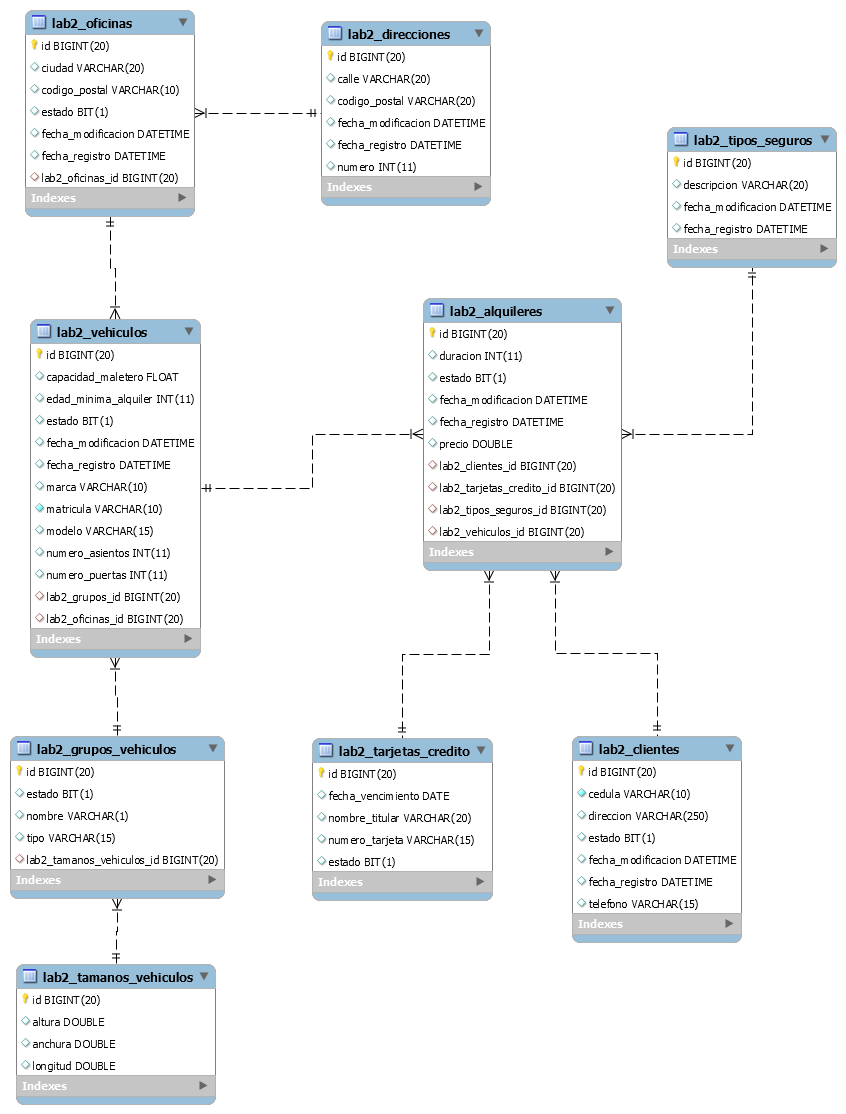
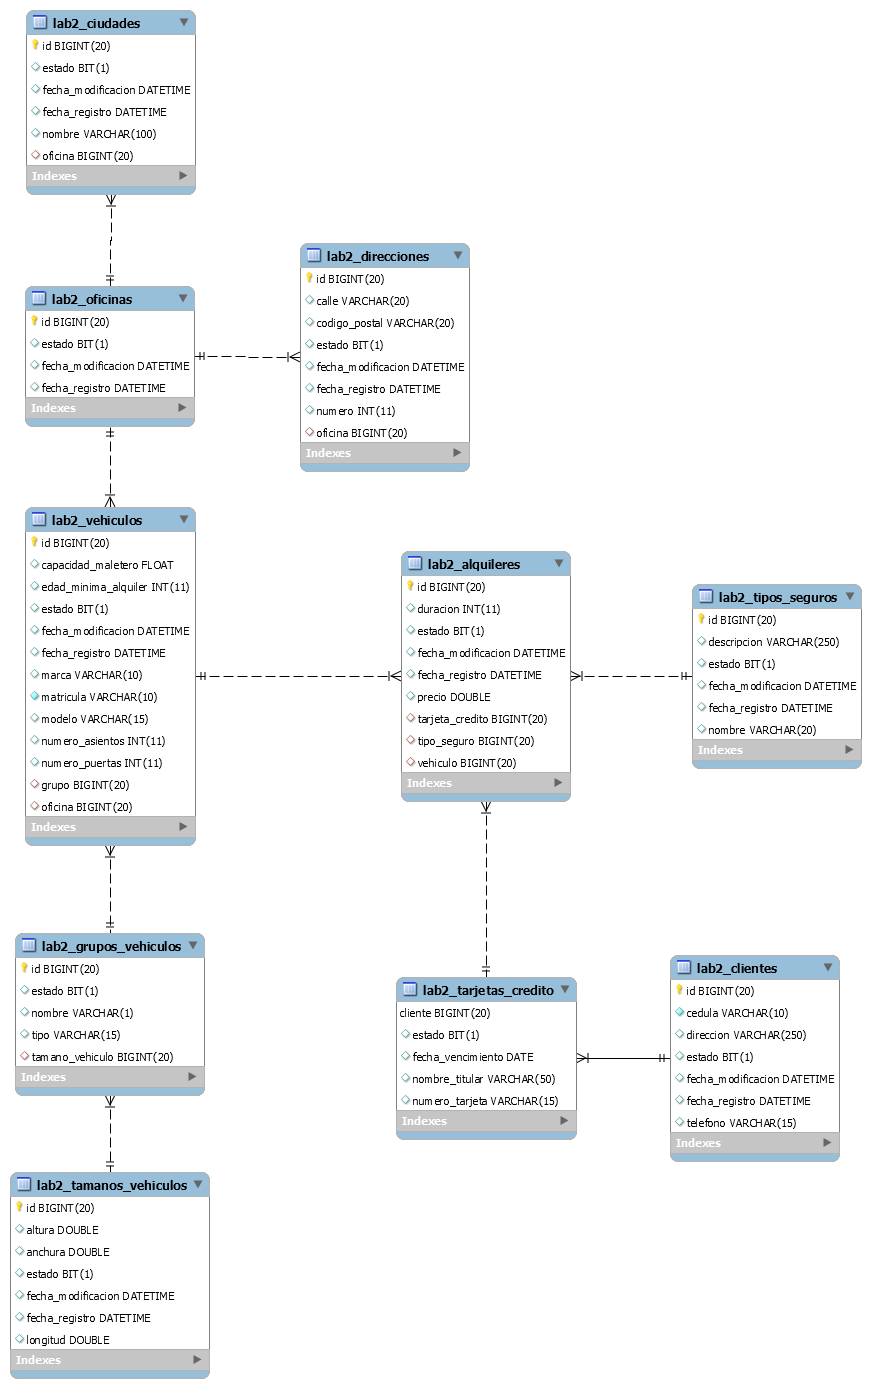
Se agrega ciudad y se modifican relaciones

diff --git a/agencia/src/main/java/org/una/agencia/entities/Ciudad.java b/agencia/src/main/java/org/una/agencia/entities/Ciudad.java
@@ -6,7 +6,9 @@
 package org.una.agencia.entities;
 
 import java.io.Serializable;
+import java.util.ArrayList;
 import java.util.Date;
+import java.util.List;
 import javax.persistence.CascadeType;
 import javax.persistence.Column;
 import javax.persistence.Entity;
@@ -14,6 +16,8 @@ import javax.persistence.FetchType;
 import javax.persistence.GeneratedValue;
 import javax.persistence.GenerationType;
 import javax.persistence.Id;
+import javax.persistence.JoinColumn;
+import javax.persistence.OneToMany;
 import javax.persistence.OneToOne;
 import javax.persistence.PrePersist;
 import javax.persistence.PreUpdate;
@@ -32,28 +36,22 @@ import lombok.ToString;
  * @author Pablo-VE
  */
 @Entity
-@Table(name = "lab2_tamanos_vehiculos")
+@Table(name = "lab2_ciudades")
 @Data
 @AllArgsConstructor
 @NoArgsConstructor
 @ToString
-public class TamanoVehiculo implements Serializable{
+public class Ciudad implements Serializable{
     @Id
     @GeneratedValue(strategy = GenerationType.IDENTITY)
     private Long id;
+            
+    @Column(length = 100)
+    private String nombre;
     
-    @Column
-    private double altura;
-    
-    @Column
-    private double anchura;
-    
-    @Column
-    private double longitud;
-    
-    @OneToOne(mappedBy = "tamanoVehiculo", cascade = CascadeType.ALL, fetch = FetchType.LAZY)
-    private GrupoVehiculo grupoVehiculo;
-    
+    @OneToOne(fetch = FetchType.LAZY)
+    @JoinColumn(name = "oficina", referencedColumnName = "id")
+    private Oficina oficina;
     
     @Column(name = "fecha_registro", updatable = false)
     @Temporal(TemporalType.TIMESTAMP)
@@ -65,12 +63,12 @@ public class TamanoVehiculo implements Serializable{
     @Temporal(TemporalType.TIMESTAMP)
     private Date fechaModificacion;
     
-    @Column 
+    @Column
     private boolean estado;
     
     @PrePersist
     public void prePersist() {
-        estado = true;
+        estado=true;
         fechaRegistro = new Date();
         fechaModificacion = new Date();
     }
@@ -79,5 +77,4 @@ public class TamanoVehiculo implements Serializable{
     public void preUpdate() {
         fechaModificacion = new Date();
     }
-    
 }

diff --git a/agencia/src/main/java/org/una/agencia/entities/Oficina.java b/agencia/src/main/java/org/una/agencia/entities/Oficina.java
@@ -17,6 +17,7 @@ import javax.persistence.GeneratedValue;
 import javax.persistence.GenerationType;
 import javax.persistence.Id;
 import javax.persistence.JoinColumn;
+import javax.persistence.ManyToOne;
 import javax.persistence.OneToMany;
 import javax.persistence.OneToOne;
 import javax.persistence.PrePersist;
@@ -45,17 +46,11 @@ public class Oficina implements Serializable{
     @Id
     @GeneratedValue(strategy = GenerationType.IDENTITY)
     private Long id;
-    
-    @Column(length = 20)
-    private String ciudad;
-    
-    @Column(name="codigo_postal", length = 10)
-    private String codigoPostal;
-    
-    @OneToOne(fetch = FetchType.LAZY)
-    @JoinColumn(name = "direccion", referencedColumnName = "id")
+
+    @OneToOne(mappedBy = "oficina", cascade = CascadeType.ALL, fetch = FetchType.LAZY)
     private Direccion direccion;
     
+       
     @OneToMany(cascade = CascadeType.ALL, mappedBy = "oficina") 
     private List<Vehiculo> vehiculos= new ArrayList<>();
     
@@ -83,6 +78,9 @@ public class Oficina implements Serializable{
     public void preUpdate() {
         fechaModificacion = new Date();
     }
+    
+    @OneToOne(mappedBy = "oficina", cascade = CascadeType.ALL, fetch = FetchType.LAZY)
+    private Ciudad ciudad;
 
     
 }

diff --git a/agencia/src/main/java/org/una/agencia/entities/Direccion.java b/agencia/src/main/java/org/una/agencia/entities/Direccion.java
@@ -7,13 +7,13 @@ package org.una.agencia.entities;
 
 import java.io.Serializable;
 import java.util.Date;
-import javax.persistence.CascadeType;
 import javax.persistence.Column;
 import javax.persistence.Entity;
 import javax.persistence.FetchType;
 import javax.persistence.GeneratedValue;
 import javax.persistence.GenerationType;
 import javax.persistence.Id;
+import javax.persistence.JoinColumn;
 import javax.persistence.OneToOne;
 import javax.persistence.PrePersist;
 import javax.persistence.PreUpdate;
@@ -61,11 +61,17 @@ public class Direccion implements Serializable{
     @Temporal(TemporalType.TIMESTAMP)
     private Date fechaModificacion;
     
-    @OneToOne(mappedBy = "direccion", cascade = CascadeType.ALL, fetch = FetchType.LAZY)
+        
+    @OneToOne(fetch = FetchType.LAZY)
+    @JoinColumn(name = "oficina", referencedColumnName = "id")
     private Oficina oficina;
+    
+    @Column
+    private boolean estado;
     
     @PrePersist
     public void prePersist() {
+        estado=true;
         fechaRegistro = new Date();
         fechaModificacion = new Date();
     }

diff --git a/agencia/src/main/java/org/una/agencia/dto/CiudadDTO.java b/agencia/src/main/java/org/una/agencia/dto/CiudadDTO.java
@@ -5,29 +5,34 @@
  */
 package org.una.agencia.dto;
 
+import java.util.Date;
 import javax.json.bind.annotation.JsonbDateFormat;
+import javax.persistence.Column;
+import javax.persistence.Temporal;
+import javax.persistence.TemporalType;
+import lombok.AccessLevel;
 import lombok.AllArgsConstructor;
 import lombok.Data;
 import lombok.NoArgsConstructor;
+import lombok.Setter;
 import lombok.ToString;
 
 /**
  *
- * @author Jeffry
+ * @author Pablo-VE
  */
-
 @Data
 @AllArgsConstructor
 @NoArgsConstructor 
 @ToString
-public class TipoSeguroDTO {
+public class CiudadDTO {
     private Long id;
     private String nombre;
-    private String descripcion;
+    private OficinaDTO oficina;
     @JsonbDateFormat(value = "yyyy-MM-dd'T'HH:mm:ss.SSSXXX")
     private java.util.Date fechaRegistro;
     @JsonbDateFormat(value = "yyyy-MM-dd'T'HH:mm:ss.SSSXXX")
     private java.util.Date fechaModificacion;
-    private OficinaDTO oficina;
     private boolean estado;
+    
 }

diff --git a/agencia/src/main/java/org/una/agencia/entities/TarjetaCredito.java b/agencia/src/main/java/org/una/agencia/entities/TarjetaCredito.java
@@ -15,6 +15,9 @@ import javax.persistence.Entity;
 import javax.persistence.GeneratedValue;
 import javax.persistence.GenerationType;
 import javax.persistence.Id;
+import javax.persistence.JoinColumn;
+import javax.persistence.ManyToOne;
+import javax.persistence.MapsId;
 import javax.persistence.OneToMany;
 import javax.persistence.PrePersist;
 import javax.persistence.Table;
@@ -63,5 +66,13 @@ public class TarjetaCredito implements Serializable{
     
     @OneToMany(cascade = CascadeType.ALL, mappedBy = "tarjetaCredito") 
     private List<Alquiler> alquileres= new ArrayList<>();
+    
+    
+    @ManyToOne 
+    @JoinColumn(name="cliente")
+    @MapsId
+    private Cliente cliente;
+    
+    
     
 }

diff --git a/agencia/src/main/java/org/una/agencia/dto/TamanoVehiculoDTO.java b/agencia/src/main/java/org/una/agencia/dto/TamanoVehiculoDTO.java
@@ -5,6 +5,7 @@
  */
 package org.una.agencia.dto;
 
+import javax.json.bind.annotation.JsonbDateFormat;
 import lombok.AllArgsConstructor;
 import lombok.Data;
 import lombok.NoArgsConstructor;
@@ -24,4 +25,9 @@ public class TamanoVehiculoDTO {
     private double anchura;
     private double longitud;
     private GrupoVehiculoDTO grupoVehiculo;
+    @JsonbDateFormat(value = "yyyy-MM-dd'T'HH:mm:ss.SSSXXX")
+    private java.util.Date fechaRegistro;
+    @JsonbDateFormat(value = "yyyy-MM-dd'T'HH:mm:ss.SSSXXX")
+    private java.util.Date fechaModificacion;
+    private boolean estado;
 }

diff --git a/agencia/src/main/java/org/una/agencia/entities/TipoSeguro.java b/agencia/src/main/java/org/una/agencia/entities/TipoSeguro.java
@@ -46,6 +46,9 @@ public class TipoSeguro implements Serializable{
     private Long id;
     
     @Column(length = 20)
+    private String nombre;
+    
+    @Column(length = 250)
     private String descripcion;
     
     @OneToMany(cascade = CascadeType.ALL, mappedBy = "tipoSeguro") 
@@ -63,6 +66,9 @@ public class TipoSeguro implements Serializable{
     
     @OneToOne(mappedBy = "direccion", cascade = CascadeType.ALL, fetch = FetchType.LAZY)
     private Oficina oficina;
+    
+    @Column
+    private boolean estado;
     
     @PrePersist
     public void prePersist() {

diff --git a/agencia/src/main/java/org/una/agencia/dto/OficinaDTO.java b/agencia/src/main/java/org/una/agencia/dto/OficinaDTO.java
@@ -21,13 +21,12 @@ import lombok.ToString;
 @ToString
 public class OficinaDTO {
     private Long id;
-    private String ciudad;
-    private String codigoPostal;
     private DireccionDTO direccion;
     @JsonbDateFormat(value = "yyyy-MM-dd'T'HH:mm:ss.SSSXXX")
     private java.util.Date fechaRegistro;
     @JsonbDateFormat(value = "yyyy-MM-dd'T'HH:mm:ss.SSSXXX")
     private java.util.Date fechaModificacion;
     private boolean estado;
+    private CiudadDTO ciudad;
     
 }

diff --git a/agencia/src/main/java/org/una/agencia/entities/Cliente.java b/agencia/src/main/java/org/una/agencia/entities/Cliente.java
@@ -78,9 +78,10 @@ public class Cliente implements Serializable{
     public void preUpdate() {
         fechaModificacion = new Date();
     }
+
     
     @OneToMany(cascade = CascadeType.ALL, mappedBy = "cliente") 
-    private List<Alquiler> alquileres= new ArrayList<>();
+    private List<TarjetaCredito> tarjetasDeCredito= new ArrayList<>();
     
    
 }

diff --git a/agencia/src/main/java/org/una/agencia/dto/AlquilerDTO.java b/agencia/src/main/java/org/una/agencia/dto/AlquilerDTO.java
@@ -26,7 +26,6 @@ public class AlquilerDTO {
     private double precio;
     private VehiculoDTO vehiculo;
     private TipoSeguroDTO tipoSeguro;
-    private ClienteDTO cliente;
     private TarjetaCreditoDTO tarjetaCredito;
     @JsonbDateFormat(value = "yyyy-MM-dd'T'HH:mm:ss.SSSXXX")
     private java.util.Date fechaRegistro;

diff --git a/agencia/src/main/java/org/una/agencia/entities/Alquiler.java b/agencia/src/main/java/org/una/agencia/entities/Alquiler.java
@@ -55,10 +55,7 @@ public class Alquiler implements Serializable{
     @JoinColumn(name="tipo_seguro")
     private TipoSeguro tipoSeguro;
     
-    
-    @ManyToOne 
-    @JoinColumn(name="cliente")
-    private Cliente cliente;
+
 
     @ManyToOne 
     @JoinColumn(name="tarjeta_credito")

diff --git a/agencia/src/main/java/org/una/agencia/dto/TarjetaCreditoDTO.java b/agencia/src/main/java/org/una/agencia/dto/TarjetaCreditoDTO.java
@@ -26,5 +26,6 @@ public class TarjetaCreditoDTO {
     private boolean estado;
     @JsonbDateFormat(value = "yyyy-MM-dd'T'HH:mm:ss.SSSXXX")
     private java.util.Date fechaVencimiento;
+    private ClienteDTO cliente;
     
 }
